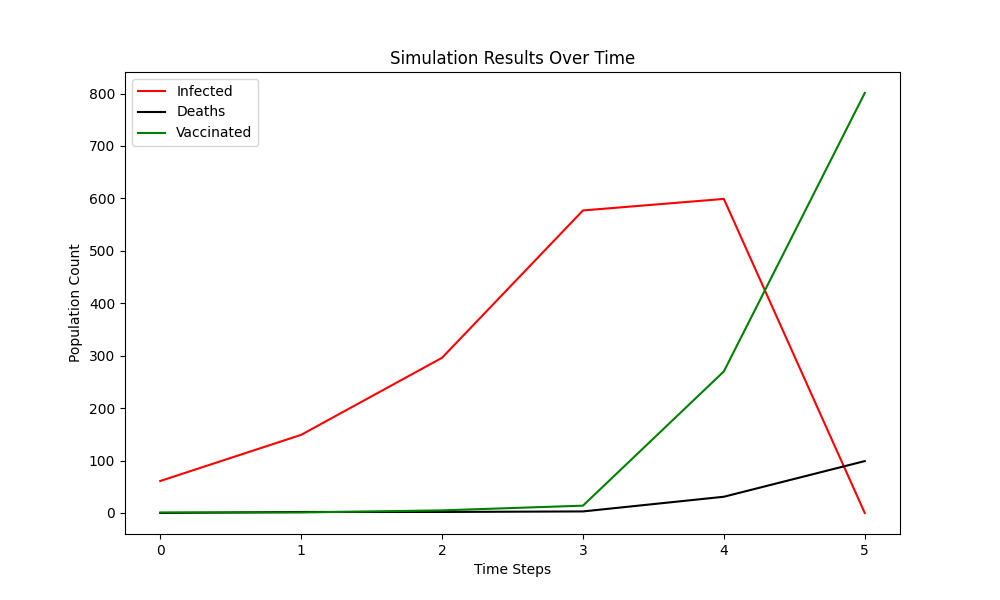
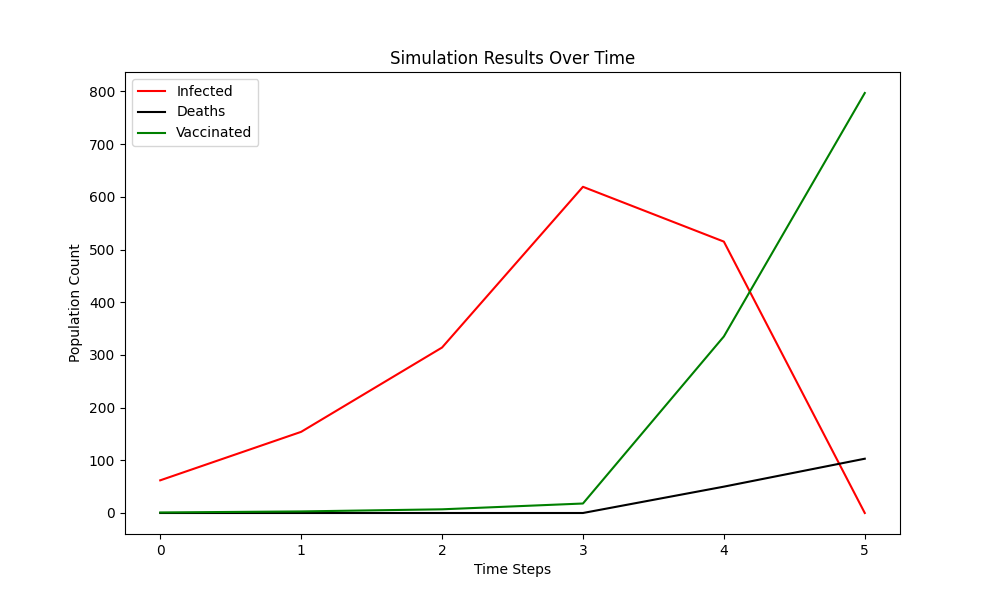
updated README, added graph image, and revised logger/answer.txt based on new simulation data

diff --git a/ReadMe.md b/ReadMe.md
@@ -1,220 +1,48 @@
-# Final Project: Herd Immunity Simulation
+# Herd Immunity Simulation 🦠
+### Ivan Reyes | ACS 1111: Object Oriented Programming | Dani Roxberry
 
-_Imagine you have been hired at a new startup focused on health and medicine --- and the World Health Organization needs your skills as programmatic pandemic simulation specialist!_
+---
 
-**Your job is to create a simulation of herd immunity by modeling how a virus moves through a population where some (but not all) of a population is vaccinated against a virus.**
+### ℹ Program Description
+The Virus Simulation program models the spread of a virus within a population, tracking key metrics such as infection rate, vaccination effects, mortality rate, and the total number of deaths over time. This simulation runs in time steps, during which infected individuals interact with unvaccinated, healthy people, potentially spreading the virus. The program logs all interactions, simulates deaths and recoveries, and provides data visualizations of the virus's progress.
 
-## Table of Contents
+**Key Features:**
+- **Infection Spread**: Infected individuals interact with random unvaccinated individuals, and new infections may occur based on the virus's reproduction rate.
+- **Mortality and Recovery**: Infected people either recover or die based on the virus's mortality rate. Recovered individuals become immune and vaccinated.
+- **Vaccination Impact**: Vaccinated individuals cannot become infected, and the simulation tracks the number of lives saved due to vaccinations.
+- **Simulation Logging**: Detailed logs of each time step’s interactions, deaths, and vaccinations are saved, enabling deeper analysis of the simulation's progression.
+- **Data Visualization**: Track the virus's spread over time with charts showing infected, dead, and vaccinated individuals at each step.
 
-- [**Goals**](#%67%6F%61%6C%73)
-  - [Rules](#%72%75%6C%65%73)
-  - [Answer These Questions](#%61%6E%73%77%65%72%2D%74%68%65%73%65%2D%71%75%65%73%74%69%6F%6E%73)
-- [**Getting Started**](#%67%65%74%74%69%6E%67%2D%73%74%61%72%74%65%64)
-  - [Repository Setup](#%72%65%70%6F%73%69%74%6F%72%79%2D%73%65%74%75%70)
-  - [Running the Program](#%72%75%6E%6E%69%6E%67%2D%74%68%65%2D%70%72%6F%67%72%61%6D)
-  - [Basic Structure](#%62%61%73%69%63%2D%73%74%72%75%63%74%75%72%65)
-- [**Tips for Success**](#%74%69%70%73%2D%66%6F%72%2D%73%75%63%63%65%73%73)
-- [**Project Completion**](#%70%72%6F%6A%65%63%74%2D%63%6F%6D%70%6C%65%74%69%6F%6E)
-- [**Stretch Challenges**](#%73%74%72%65%74%63%68%2D%63%68%61%6C%6C%65%6E%67%65%73)
-- [**FAQs**](#%66%61%71%73)
+---
 
-## Goals
+### ❗ How To Use
 
-- Finish the code in these files to create a working simulation that logs it's results.
-- Design your program to follow the [rules](#rules) of the simulation.
-- Get your data for virus name, mortality rate, and reproductive rate from [this Guardian article](https://www.theguardian.com/news/datablog/ng-interactive/2014/oct/15/visualised-how-ebola-compares-to-other-infectious-diseases).
-- During every time step of the simulation, **every sick person** should randomly interact with **100 other people** in the population. The chance of a sick person infecting a person that they interact with is the virus's reproductive rate. Example: if a virus has a reproductive rate of 15, then, on average, a sick person should infect 15 of the 100 people they interact with during that time step.
+1. **Clone the repository:**
+- **HTTPS**: `git clone https://github.com/lawrence-ivan-reyes/herd-immunity-simulation.git`  
+- **SSH**: `git clone git@github.com:lawrence-ivan-reyes/herd-immunity-simulation.git`  
+- **GitHub CLI**: `gh repo clone lawrence-ivan-reyes/herd-immunity-simulation` 
 
-### Rules
+2. **Run the Program:** 
+`python3 simulation.py`
 
-1. A sick person only has a chance at infecting uninfected, unvaccinated people they encounter.
-2. An infected person cannot infect a vaccinated person. This still counts as an interaction.
-3. An infected person cannot infect someone that is already infected. This still counts as an interaction.
-4. At the end of a time step, an infected person will either die of the infection or get better. The chance they will die is the percentage chance stored in `mortality_rate`.
-5. For simplicity's sake, if the person does not die, we will consider them immune to the virus and change `is_vaccinated` to `True` when this happens.
-6. Dead people can no longer be infected, either. Any time an individual dies, we should also change their `infected` attribute to `False`.
-7. All state changes for a person should occur at the **end** of a time step, after all infected persons have finished all of their interactions.
-8. During the interactions, make note of any new individuals infected on this step. After the interactions are over, we will change the `infected` attribute of all newly infected individuals to `True`.
-9. Resolve the states of all individuals that started the turn infected by determining if they die or survive the infection, and change the appropriate attributes.
-10. The simulation should output a logfile that contains a record of every interaction that occurred during the simulation. We will use this logfile to determine final statistics and answer questions about the simulation.
+You can customize the simulation's parameters in the `simulation.py` file by adjusting values such as:
+- Virus name and characteristics (reproductive rate, mortality rate).
+- Population size.
+- Percentage of the population vaccinated.
+- Initial number of infected individuals.
 
-### Answer These Questions
+3. **Log Files**
+`logger.txt`: Logs the simulation's metadata and interaction summaries for each time step.
 
-Once you have successfully run a simulation, use your python skills to **analyze the simulation results**:
+4. **Data Visualization**
+After running the simulation, it will generate a plot showing the progression of infections, deaths, and vaccinations over time (requires `matplotlib`).
+- If you dnot have `matplotlib` installed, run `pip install matplotlib` in your terminal before proceeding to run `simulation.py`.
 
-1. What were the **inputs** you gave the simulation? (Population size, percent vaccinated, virus name, mortality rate, reproductive rate)
-2. What percentage of the population became **infected** at some point before the virus burned out?
-3. What percentage of the population **died** from the virus?
-4. Out of all interactions sick individuals had during the entire simulation, **how many times, in total, did a vaccination save someone from potentially becoming infected**?
+---
 
-_When you have answered these questions, please put your answers in a file called 'answers.txt' and commit this to your repo._
-
-## Getting Started
-
-‼ **IMPORTANT:** Please follow these instructions _exactly_. 
-
-If you skip a step or do them out of order, it may not work correctly or you may not earn credit towards your GitHub commit streak.
-
-### Repository Setup
-
-Set up your local clone of this project repo on your computer.
-
-1. **Clone** (do not _fork_) this repo on GitHub onto your local computer.
-
-  - First open your terminal and navigate into the folder where you keep your projects: `cd ~/MakeSchool/Projects` (or something similar for your folders)
-  - Then run this command to _clone_ the course repo: `git clone https://github.com/Tech-at-DU/Herd-Immunity-Simulation.git`
-  - Now navigate into the new folder Git just created: `cd Herd-Immunity-Simulation`
-
-2. [**Create a new empty repo** on GitHub](https://github.com/new) also named `Herd-Immunity-Simulation` and **do not** initialize it with a ReadMe. (Creating a _new_ repo instead of a _fork_ allows you to earn credit towards your GitHub commit streak.)
-
-3. **Set the `origin` remote's URL** on your local repo to point to your new repo on GitHub: `git remote set-url origin https://github.com/<your-username>/Herd-Immunity-Simulation.git`
-
-4. **Push your local repo** to your _remote_ GitHub repo to link your `master` branch to your `origin` remote: `git push -u origin master`
-
-5. **Commit your code** to your local repo frequently (each time you've made meaningful progress).
-
-6. **Push your commits** to your remote GitHub repo when you want to publish and backup your code: `git push` (the `-u` in the previous command lets you omit `origin master` afterward).
-
-**Let's get coding!** You'll find instructions for what you need to do marked within the files themselves. Anything that you explicitly need to code should be marked with a comment that starts with `#TODO`.
-
-### Running the Program
-
-The program is designed to be run from the command line. You can do this by running
-
-```python
-python3 simulation.py
-```
-
-followed by the command line arguments in the following order, separated by spaces: {population size} {vacc_percentage} {virus_name} {mortality_rate} {repro_rate} {optional: number of people initially infected (default is 1)}
-
-Let's look at an example:
-
-- Population Size: 100,000
-- Vaccination Percentage: 90%
-- Virus Name: Ebola
-- Mortality Rate: 70%
-- Reproduction Rate: 25%
-- People Initially Infected: 10
-
-  Then I would type:
-
-  ```python
-  python3 simulation.py 100000 0.90 Ebola 0.70 0.25 10
-  ```
-
-  in the terminal.
-
-### Basic Structure
-
-The program consists of 4 classes: `Person`, `Virus`, `Simulation`, and `Logger`.
-
-- `Simulation`: Highest level of abstraction. The main class that runs the entire simulation.
-- `Person`: Represents the people that make up the population that the virus is spreading through.
-- `Virus`: Models the properties of the virus we wish to simulate.
-- `Logger`: A helper class for logging all events that happen in the simulation.
-
-When you run `simulation.py` with the corresponding command-line arguments necessary for a simulation, a simulation object is created. This simulation object then calls the `.run()` method. This method should continually check if the simulation needs to run another step using a helper method contained in the class, and then call `.time_step()` if the simulation has not ended yet. Within the `time_step()` method, you'll find all the logic necessary for actually simulating everything--that is, once you write it. As is, the file just contains a bunch of method stubs, as well as numerous comments for explaining what you need to do to get everything working.
-
-## Tips for Success
-
-First, take a look at each of the files. Get a feel for the methods and attributes in each. Feel overwhelmed? Don't panic. Instead, get out a piece of paper or a whiteboard and try to diagram what needs to happen and when using each of the objects and methods. Draw out the data flow.
-
-### Not Sure? Talk to Classmates & Ask for Help
-
-Ask your classmates and teachers for clarification/help/code reviews as needed, or drop in to tutoring hours. Share your questions and insights in the course Slack channel, or book some time to get help from Justin and Phyllis, the course teaching assistants. Collaboration is encouraged, but be sure that you typed in all the code yourself and the final project is your own!
-
-### Found a Bug or Problem? 
-
-Contact the course instructor or a teaching assistant!
-
-If you think something doesn't make sense, double check with your classmates or the instructor. If you feel the need to modify the template code to make it work another way, that's totally fine! The template code is there to help you, but it isn't a requirement that you use all of it.
-
-### Write Tests!
-
-Starting by thinking about your test cases and aiming for good test coverage is a great way to vaccinate yourself against any pre-existing bugs in the template. 
- 
- Not sure how to write tests? Look at the tests for the Super Hero project and utilize some strategies from those tests.
-
-## Project Completion
-
-**For the project to be considered done, you must**:
-
-- Complete classes for `logger.py`, `simulation.py`, and `person.py`.
-- Add at least 2 additional tests to the `virus.py` file.
-- Add at least 3 additional tests to the `person.py` file.
-- Add at least 1 log file generated from running your simulation.
-- A `simulation_test.py` file should be created that allows for testing the simulation.
-- A `logger_test.py` file should be created that allows for the testing of the logger class.
-- Your answers to the [questions asked above](#answer-these-questions) listed in a file named `answers.txt`.
-- Include a `.gitignore`
-- Submit your completed repo to Gradescope
-
-## Stretch Challenges
-
-_You'll find some of the smaller, individual stretch challenges contained with the comments of the code on the logger class. Other stretch challenges include:_
-
-1. Extending the functionality so that we can **test the spread of multiple viruses through a given population** at the same time. (Difficulty Level: Hard)
-1. **Create a visualization of the simulation**. You can do this with Pygame. Create a number of sprites equal to the the number of people in your simulation. 
-
-   - Show their status as color: `Red = infected`, `Blue = uninfected`, `Green = vaccinated`, `black = deceased`.
-   - If you try this challenge you can change the interaction system to measure infections between sprites that collide.
-   - You could also display this as a static image.
-
-1. **Graph the visualization using `matplotlib`**. This is a library used to draw graphs and charts. You could use it to graph the results of the finished simulation.
-1. Use an **alternative calculation for figuring infections**, like: mask compliance percentage, incubation time, etc. Consider the following when applying:
-
-   - The project must be done on time.
-   - Running the simulation must still work the same. If there are any new required parameters these must be fully documented.
-   - The output must adhere to the project description.
-
-## FAQs
-
-### Q: Should we include the number of new infections at each step in the logged output?
-
-**A**: Yes, include the number of new infections that happened each step in your log
-
-### Q: Should the initially infected group test their mortality against the virus?
-   
-**A**: This is up to you; it is not specified in the requirements. If the initially infected group tests their mortality, they probably should do sp at the end of the first time step.
-
-### Q: Should I simulate different stages of the virus? 
-
-_(example: infected, incubation, self quarantine. Infectious time period)_
-   
-**A**: It's up to you. I recommend getting a basic simulation working first using simple rules before adding this since it will be more work. It's more important to get the work done on time than it is to add new features.
-
-### Q: Should create a UI for a pygame simulation?
-
-**A**: Pygame doesn't include any UI controls. This makes it a lot of work to add a user interface. If you choose to use Pygame (its a stretch challenge) you can include variables at the top of your main.py that the researchers can adjust for each run of the simulation.
-
-### Q: What should the logger output look like?
-
-**A**: Include a header, a step for for each step the simulation ran, and a footer showing the final state of the populatio. Here are some details:
-   
-#### Before Simulation Begins: Display Introduction
-
-- Initial size of the population
-- Initial number of infected people
-- Name of the virus
-- Stats for the virus
-- Date the simulation was run
-
-#### While Simulation Runs: Display  Every Iteration
-
-- The number of new infections
-- The number of deaths
-- Statistics for the current state of the population:
- 
-    - Total number of living people
-    - Total number of dead people
-    - Total number of vaccinated people
-             
- #### After Simulation Ends: Summary
- 
- - Total living
- - Total dead
- - Number of vaccinations
- - Why the simulation ended
- - Total number of interactions that happened in the simulation
- - Number of interactions that resulted in vaccination
- - Number of interactions that resulted in death
+### 💻 Code Structure
+**Main Program Files**
+- **`simulation.py`**: The main file that runs the entire simulation. Contains logic for time steps, interactions, infection spread, and logging.
+- **`person.py`**: Defines the `Person` class, representing individuals in the population. Handles infection status, survival, and vaccination.
+- **`virus.py`**: Defines the `Virus` class, representing the virus being simulated, with attributes like reproduction and mortality rates.
+- **`logger.py`**: Provides logging functionality. Logs simulation metadata, time step summaries, and final results.
